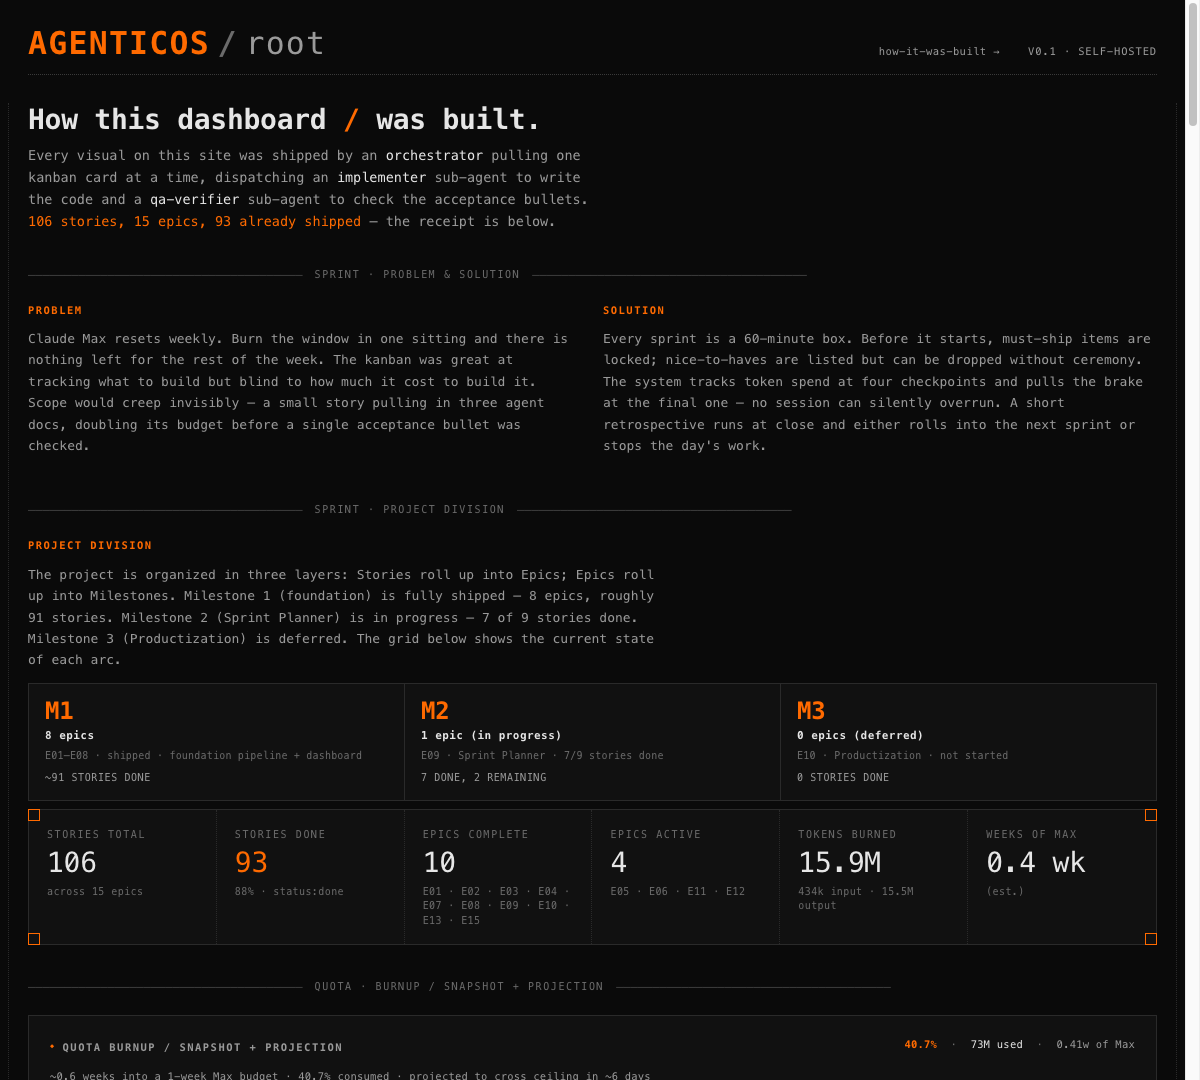
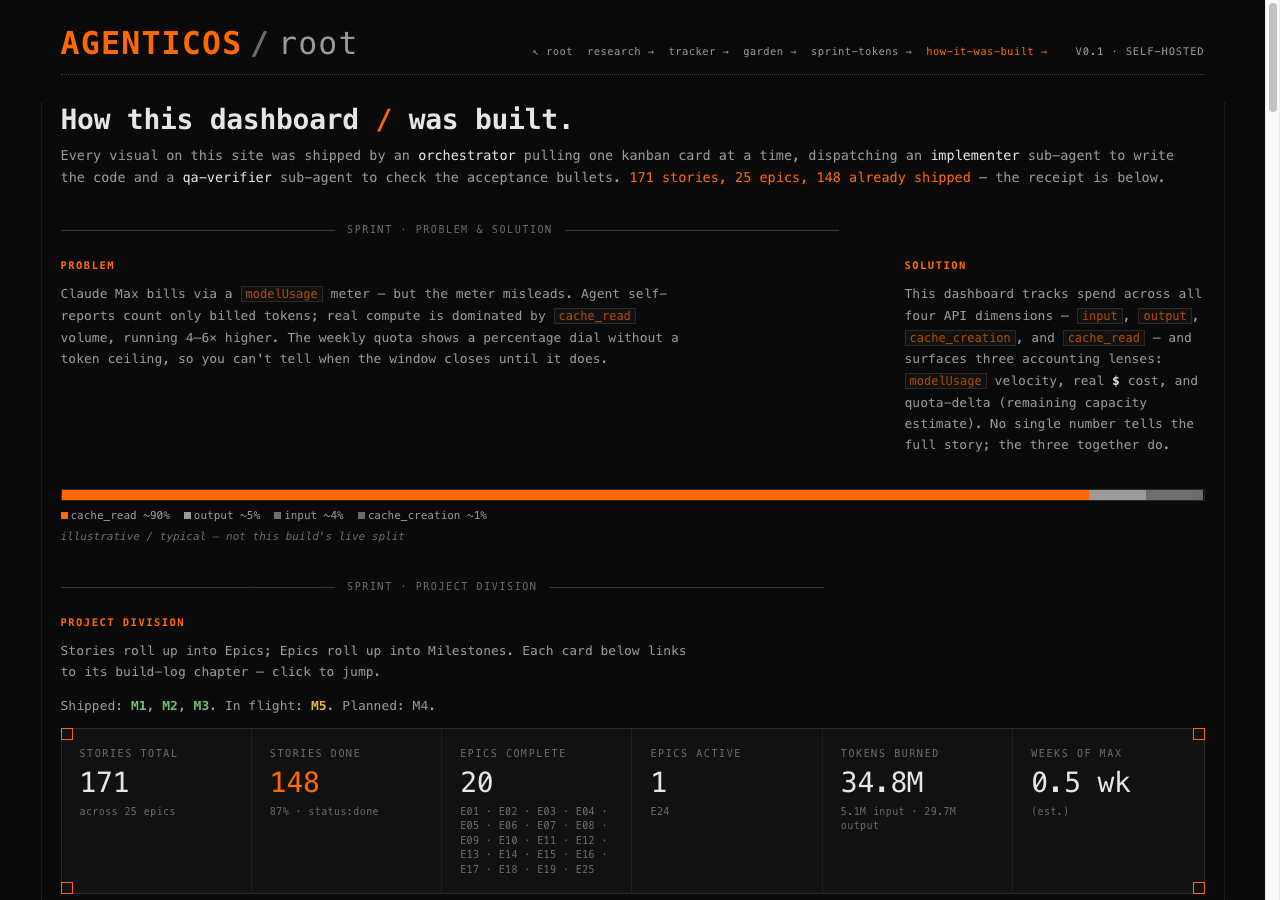
docs: refresh README with problem/solution + research ledger
Bring the public methodology shell current:
- add explicit Problem / Solution statement
- add a compact Research section (4 baseline-first findings + live links)
- lead with the build-receipt hero; recapture screenshots at current scale
  (171 stories / 148 shipped / 25 epics / 71 sprints)
- replace the stale 106/15/26 sprint screenshot

diff --git a/README.md b/README.md
@@ -1,33 +1,61 @@
 # AgenticOS PMO
 
-Obsidian-native PM workspace + methodology that drives the build of [AgenticOS](https://github.com/SethMK/agenticos). Replaces story-point fiction with **measured calibration** anchored to actual sub-agent token + time runs.
+The Obsidian-native PM workspace + methodology that drove an AI-native product from idea to a live dashboard — and the research ledger that caught the agent self-reports running **4–6× under** true cost. Live build: **[agenticos.sethsendom.com](https://agenticos.sethsendom.com)**.
 
-![AgenticOS public CV dashboard — tokens, projects, skills, agents, MCPs, activity heatmap, model split](assets/home-cv.png)
+It replaces story-point fiction with **measured calibration** anchored to real sub-agent token + time runs, runs the work in **one-hour sprints**, and treats every learning as a **falsifiable hypothesis** with a measured baseline.
 
-The public `/` dashboard this PMO drives — tokens burned, projects, skills, agents, activity heatmap, model split. Every number is measured from real runs, not estimated.
+![How this dashboard was built — the build receipt: 171 stories, 148 shipped, 25 epics, three milestones shipped, across 71 one-hour sprints](assets/how-it-was-built-hero.png)
 
-![How this dashboard was built — build receipt: 106 stories, 93 shipped, 15 epics, quota burnup](assets/how-it-was-built-hero.png)
+The `/how-it-was-built` view this PMO renders — **171 stories / 148 shipped / 25 epics**, three milestones shipped (M1–M3), across **71 one-hour sprints**.
 
-![Sprint burnup, velocity trend, and estimate-accuracy charts across 26 closed sprints](assets/how-it-was-built-sprints.png)
+## The problem
 
-The `/how-it-was-built` view — 106 stories / 93 shipped / 15 epics, plus the sprint cycle's burnup, velocity trend, and estimate-accuracy charts.
+Build a real, shipping product **solo, with AI sub-agents, under a hard weekly token quota** — and do it without the usual self-deception:
 
-## What it is
+- **Story points are fiction.** "3 points" tells you nothing about what a story will actually cost.
+- **You can't see your own ceiling.** Claude's weekly quota is a percentage dial with no token number, so you only learn the window closed *after* it closed.
+- **Cost isn't what the agent says it is.** A sub-agent's self-report counts billed tokens only; real compute runs multiples higher.
+- **Agents fabricate.** A sub-agent will report a file write it never made — often enough that every claimed write earns a deterministic grep check.
 
-A kanban + story decomposition workspace built natively in Obsidian, that an orchestrator (Claude Code session) reads + writes to drive single-story-at-a-time agentic builds.
+## The solution
 
-Not a SaaS, not a hosted tool. A **rule set + file structure + agent contract** that any team can fork into their own Obsidian vault.
+A planning workspace — not a SaaS, just a **rule set + file structure + agent contract** you can fork into any Obsidian vault — that answers each of those with a measured discipline:
+
+1. **Calibration, not estimation.** Every story is priced by the *shape of its verification protocol* (calibration v3). A cold rebuild + Playwright pass is a ~130k-token floor whether you changed one line or fifty. Numbers are re-derived from logged runs, never guessed.
+2. **One-hour sprints, two budgets, MoSCoW-lite.** Each sprint locks a small set of **must-ship** stories (the success bar) and lists **should-ship** ones dropped without ceremony if the must-haves eat the budget. **Work** tokens and **overhead** tokens (planning + retro) are tracked as two separate numbers — so there's never an incentive to skip the retro to make the burn look cheap. Four tripwires fire during execution (50% info · 75% warn · 85% drop should-haves · 100% hard-stop).
+3. **Baseline-first research.** No learning becomes *validated* without a measured before/after delta and a no-regression guard. `refuted` is a first-class outcome. (More below.)
+4. **Process enforced, not remembered.** The rules that matter — verify every sub-agent write by grep, spawn a separate QA agent on every cross-window hand-off, gate subprocess completion on turn-count — are deterministic checks, not prompt reminders.
+
+![AgenticOS public CV dashboard — the live output this workspace produces: tokens, projects, skills, agents, activity heatmap, model split](assets/home-cv.png)
+
+The public `/` dashboard this PMO drives — every number measured from real runs, not estimated.
+
+## Research, made public
+
+The PMO runs a **baseline-first hypothesis ledger**. Every claim records a measured current-state baseline *before* it's allowed into observation, and a measured delta *before* it can validate. Four findings that shaped the build:
+
+- **Prototyping first is the single biggest cost lever.** A pixel-honest prototype absorbs the geometry and feasibility unknowns up front. Same-session proof: a prototyped page landed **95% under budget**; an un-prototyped page of the same shape ran **146% over**.
+- **Measuring the baseline kills bad ideas before you build them.** We nearly built a code-search index to save tokens — then measured that search and navigation is only **~8% of all tokens**, half the eyeball guess. The intervention couldn't have paid off. The measurement *was* the deliverable.
+- **An AI cannot measure its own effort.** Agents self-reported 14–22k tokens when the true metered cost was 85–98k — **4–6× under**. The billing meter is the authority; the agent's own introspection is blind. (This is the ledger's one *critical*-severity finding.)
+- **Spec-first earned a confident GO.** Building milestone pages against an OpenSpec change kept acceptance mechanically checkable — and recovered verification when a headless build driver crashed mid-run. Traceability up, tokens neutral.
+
+Browse the live research surface: **[explorer](https://agenticos.sethsendom.com/research/explorer)** (faceted + scatter) · **[tracker](https://agenticos.sethsendom.com/research/tracker)** (validated / watching / queued) · **[garden](https://agenticos.sethsendom.com/research/garden)** (skill-tree) · **[sprint-tokens](https://agenticos.sethsendom.com/research/sprint-tokens)** (per-sprint decomposition).
+
+![Research garden — the learnings as a skill-tree; validating a hypothesis unlocks its dependents](assets/garden.png)
+
+![Research tracker — a CI-style board of what's validated, what's under observation, and what's queued](assets/tracker.png)
 
 ## Mental model
 
-The agentic orchestrator runs the work. This vault is the **planning surface** the orchestrator + curator agent read + update.
+The agentic orchestrator runs the work. This vault is the **planning surface** the orchestrator + curator agent read and update.
 
 - `boards/kanban.md` — the live board (5 columns)
 - `product/` — PRD, goals, founding plan
-- `epics/` — epic-level scope
-- `stories/` — 1-3 point story files with structured front-matter
-- `ceremonies/standups/` — daily progress notes (auto-written by curator agent)
-- `exports/` — sanitised public-facing kanban + sample stories for `/how-it-was-built` view
+- `epics/` + `milestones/` — epic and milestone scope
+- `stories/` — 1–3 point story files with structured front-matter
+- `ceremonies/` — standups, sprints, retros (written during sprint ceremonies)
+- `notes/research/` — the hypothesis ledger
+- `exports/` — sanitised public board, merged into the dashboard's `public.json`
 
 ## Story state machine
 
@@ -35,56 +63,50 @@ The agentic orchestrator runs the work. This vault is the **planning surface** t
 Backlog → Ready → In Progress → Review → Done
 ```
 
-Single-story-at-a-time by default. Work-in-progress is decided per-pull by file-overlap analysis — a second card runs in parallel only when the two stories touch disjoint files. Each transition is logged by the `pm-curator` agent.
+Single-story-at-a-time by default. A second card runs in parallel only when the two stories provably touch disjoint files. Each transition is logged by the `pm-curator` agent.
 
 ## Calibration table
 
-v3 prices a story by the **shape of its verification protocol**, not its code surface area. A one-line CSS fix that still needs a cold rebuild + Playwright pass costs the same ~130k-token floor as a small feature with the same protocol. Minutes are wall-clock from card-pull to Done.
+v3 prices a story by the **shape of its verification protocol**, not its code surface. Minutes are wall-clock from card-pull to Done.
 
 | Bucket | Tokens | Wall-clock | Agents | Shape |
 |---|---|---|---|---|
 | **S-inline** | 5–30k | 1–5 min | 1 | Orchestrator-inline edit + grep; no QA pair (single-file CSS/constant, front-matter flip) |
-| **S-with-QA** | 100–160k | 4–8 min | 2 | One-file fix + implementer+QA pair (cold-rebuild + Playwright) |
+| **S-with-QA** | 100–160k | 4–8 min | 2 | One-file fix + implementer + QA pair (cold-rebuild + Playwright) |
 | **M-data** | 120–160k | 3–8 min | 2 | Single pipeline step + attribution-coverage QA across the JSONL |
 | **M-frontend** | 80–120k | 3–8 min | 2 | One component or surgical page edit + Playwright QA |
 | **M-frontend (cross-window)** | 200–250k | 4–12 min | 2 | Same, but handed off PMO → build repo (+coordination cost) |
 | **M-agent-def** | 120–160k | 3–8 min | 2 | New `.claude/` agent or hook + spec-compliance QA + dry-run |
 | **L-single** | 160–220k | 8–14 min | 2 | Hairy single component + Playwright QA |
-| **Spike** | 80–150k | 5–12 min | 1–2 | Exploration + variants + recommendation; no commit expected |
+| **Spike** | 80–150k | 5–12 min | 1 | Exploration + variants + recommendation; no commit expected |
 
-**Floor: ~130k tokens** for any story whose protocol includes a cold rebuild + Playwright pass — regardless of how few lines changed. Each sub-agent spawn also pays a ~100–125k system-prompt floor, so "just parallelise it" is rarely cheaper at this task size. Calibration replaces estimation theatre with measured reality: every number above is re-derived from logged token + time runs, not guessed.
+**Floor: ~130k tokens** for any story whose protocol includes a cold rebuild + Playwright pass — regardless of how few lines changed. Each sub-agent spawn also pays a ~100–125k system-prompt floor, so "just parallelise it" is rarely cheaper at this task size. Calibration replaces estimation theatre with measured reality: every number above is re-derived from logged token + time runs.
+
+![Sprint-tokens — per-sprint composition for all 71 sprints, with honest ±50% noise badges and a cap-model explainer](assets/sprint-tokens.png)
 
 ## Sprint cycle
 
 Work runs in **1-hour time-boxed sprints**. Two ideas keep them honest:
 
-- **MoSCoW-lite.** Each sprint locks a small set of **must-ship** stories (the success bar) and lists **should-ship** ones that get dropped without ceremony if the must-haves eat the budget. A sprint succeeds only if every must-have ships.
+- **MoSCoW-lite.** Each sprint locks a small set of **must-ship** stories (the success bar) and lists **should-ship** ones dropped without ceremony if the must-haves eat the budget. A sprint succeeds only if every must-have ships.
 - **Two budgets, tracked separately.** Every sprint reports **work** tokens (stories + improvements) and **overhead** tokens (planning + close + retro) as two distinct numbers. Overhead lives *outside* the work budget on purpose — so there's never an incentive to skip the retrospective to make the burn look cheaper.
 
-Token spend is checked at four tripwires during execution (50% info · 75% warn · 85% drop should-haves · 100% hard-stop). The `/how-it-was-built` dashboard charts all of it live: a **sprint burnup** (work vs overhead vs planned budget), a **velocity trend** across every closed sprint, and **estimate-accuracy** bars comparing planned vs actual.
+Spend is checked at four tripwires during execution (50% info · 75% warn · 85% drop should-haves · 100% hard-stop). Every closed sprint's token composition is published per-sprint on the live [sprint-tokens](https://agenticos.sethsendom.com/research/sprint-tokens) page.
 
 ## Reusable patterns
 
-The workspace codifies four patterns that generalise to any multi-agent build:
+Four patterns that generalise to any multi-agent build:
 
 1. **File-ownership contracts** — each sub-agent reads specific files, writes specific outputs, never cross-edits another agent's territory.
-2. **Hand-off markers** — explicit STOP at end of each agent's run. Main thread approves before the next agent fires.
-3. **Approval gates** — manual review checkpoints for design-dependent or high-confidence outputs.
-4. **Verification logs** — every step writes a structured note for downstream agents (creates audit trail + debuggability).
+2. **Explicit hand-off gates** — each run ends with a structured done-message; the orchestrator verifies the artifacts by grep before the next agent fires.
+3. **Deterministic verify gates** — every claimed write is grep-checked; every cross-window hand-off spawns its own QA agent. Trust is verified, not assumed.
+4. **Verification logs** — each step appends a structured note to the verify log (audit trail + debuggability).
 
-## First-time setup (if you fork the pattern)
-
-Open the vault in Obsidian. Install three community plugins:
-
-- **Kanban** by mgmeyers — required for `boards/kanban.md`
-- **Tasks** by schaeser — task queries inside story files
-- **Dataview** — table queries over story front-matter
+To fork the pattern: open the vault in Obsidian and install the **Kanban** (mgmeyers), **Tasks** (schaeser), and **Dataview** community plugins.
 
 ## Code
 
-Code lives in a private repo. This public README documents methodology + agent contract.
-
-Sister repo: [agenticos](https://github.com/SethMK/agenticos) — the actual build this PMO drives.
+Code lives in a private repo. This public README documents the methodology + agent contract. Sister repo: **[agenticos](https://github.com/SethMK/agenticos)** — the actual build this PMO drives.
 
 ---
 
